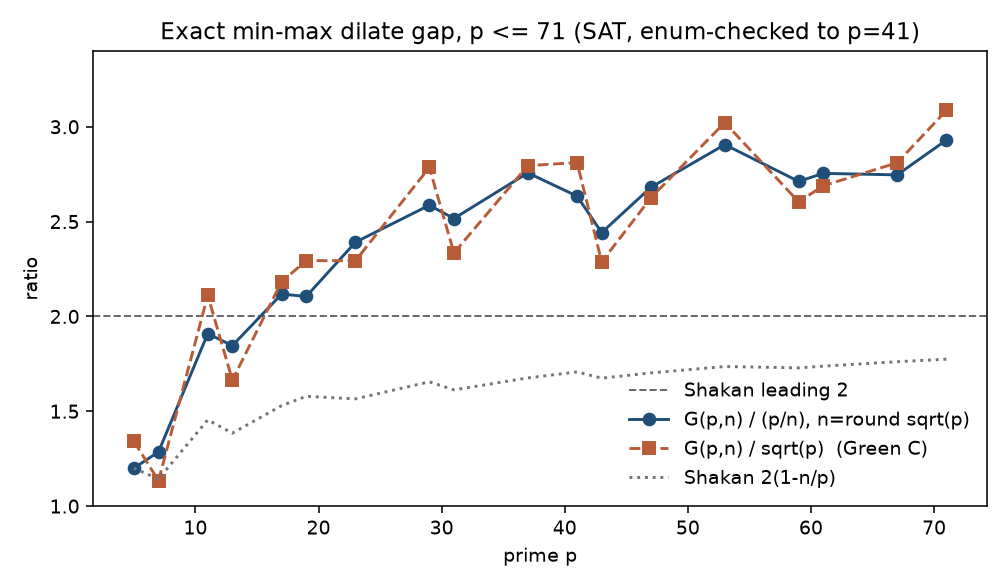
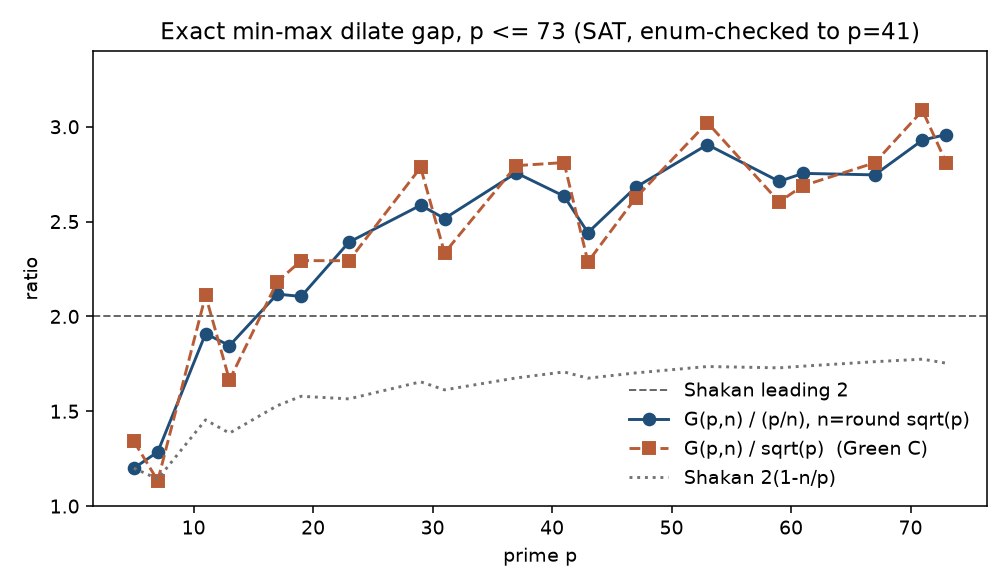
long-gap-dilate: exact G(73,9)=24 by Cadical unsat
Cadical proves T=24 unsatisfiable in 165s; Glucose4 already has a
hitting set at T=25. Witness recomputes. Table now runs through
p=73. Still no universal C>2; Shakan’s 2 is unchanged.

diff --git a/problems/long-gap-dilate/compute/q1/verify_q1.py b/problems/long-gap-dilate/compute/q1/verify_q1.py
@@ -17,18 +17,24 @@ def check_sat_upper(path: Path) -> list[dict]:
         return []
     data = json.loads(path.read_text())
     p, n = data["p"], data["n"]
-    best = data["G_upper"]
-    for row in data["rows"]:
-        A = uniq_mod(row["A"], p)
-        if len(A) != n:
-            bad.append({"tag": "upper-n", "T": row["T"]})
-            continue
+    if "rows" in data:
+        best = data["G_upper"]
+        for row in data["rows"]:
+            A = uniq_mod(row["A"], p)
+            if len(A) != n:
+                bad.append({"tag": "upper-n", "T": row["T"]})
+                continue
+            g, _ = max_gap_dilates(A, p)
+            if g != row["g"] or g >= row["T"]:
+                bad.append({"tag": "upper-g", "T": row["T"], "g": g})
+        got_best = min(row["g"] for row in data["rows"])
+        if got_best != best:
+            bad.append({"tag": "upper-best", "g": got_best, "best": best})
+    else:
+        A = uniq_mod(data["witness"], p)
         g, _ = max_gap_dilates(A, p)
-        if g != row["g"] or g >= row["T"]:
-            bad.append({"tag": "upper-g", "T": row["T"], "g": g})
-    got_best = min(row["g"] for row in data["rows"])
-    if got_best != best:
-        bad.append({"tag": "upper-best", "g": got_best, "best": best})
+        if g != data.get("G", data.get("G_upper")) or len(A) != n:
+            bad.append({"tag": "upper-witness", "p": p, "g": g})
     return bad
 
 

diff --git a/problems/long-gap-dilate/compute/plot_ratios.py b/problems/long-gap-dilate/compute/plot_ratios.py
@@ -23,7 +23,7 @@ def main():
     ax.plot(p, sh_mean, ":", color="0.45", label="Shakan 2(1-n/p)")
     ax.set_xlabel("prime p")
     ax.set_ylabel("ratio")
-    ax.set_title("Exact min-max dilate gap, p <= 71 (SAT, enum-checked to p=41)")
+    ax.set_title("Exact min-max dilate gap, p <= 73 (SAT, enum-checked to p=41)")
     ax.legend(frameon=False)
     ax.set_ylim(1.0, 3.4)
     fig.tight_layout()

diff --git a/problems/long-gap-dilate/ATTACK.md b/problems/long-gap-dilate/ATTACK.md
@@ -249,16 +249,18 @@ cheap; the first timeout is the wall.
 
 | p | n | G_upper | ratio | first timeout T | shakan |
 | --- | --- | --- | --- | --- | --- |
-| 73 | 9 | 24 | 2.959 | 24 (90s; also Glucose42, Cadical) | 14.22 |
+| 73 | 9 | 24 | 2.959 | **exact** $G=24$ (Cadical UNSAT at $T=24$ in 165s) | 14.22 |
 | 79 | 9 | 26 | 2.962 | 26 (60s) | 15.56 |
 | 83 | 9 | 27 | 2.928 | 27 (60s) | 16.44 |
 | 89 | 9 | 30 | 3.034 | 30 (60s) | 17.78 |
 
-Witnesses in `q1/certs/sat_extend.jsonl`. Cadical proved $T=23$
-UNSAT at $p=73$ in 54s, so $23\le G(73,9)\le 24$, but $T=24$ timed
-out on three solvers. Isolated timeout = residue. The exact table
-still ends at $p=71$. No lifting pattern: the new upper ratios sit
-on the same $2.93$–$3.03$ plateau as $G(71,8)/(p/n)=2.93$.
+Witnesses in `q1/certs/sat_extend.jsonl`. Cadical proved $T=24$
+UNSAT at $p=73$ in 165s after a 90s timeout on Glucose4/42, so
+$G(73,9)=24$ is exact (ratio $2.959$). That row is in
+`compute/certs/sat_G.jsonl`. The next primes still have only upper
+bounds; those timeouts are residue. No lifting pattern: $24$ sits
+on the same $2.93$–$3.03$ plateau as $G(71,8)/(p/n)=2.93$. One new
+exact row is not a universal $C>2$.
 
 ## 2026-08-27 — no $C\to 2$ family through $p=199$
 
@@ -273,10 +275,10 @@ $\max_d g\le(2+\varepsilon)\sqrt p$.
 ## 2026-08-27 — stop
 
 No certified universal $C>2$. No construction that meets Shakan on
-infinitely many primes. No exact SAT row past $p=71$, so no lifting
-argument. Shakan’s 2 is still the published leading constant. The
-q1 leftover is a degree-saturation of the rising factorials, SAT
-upper bounds $G\le 24,26,27,30$ at $p=73,79,83,89$, a Cadical
-UNSAT giving $G(73,9)\ge 23$, and a construction table through
-$p=199$. The live handle is no longer “expand $w$ and read degrees”;
-those degrees are full.
+infinitely many primes. Exact $G(73,9)=24$ extends the table by one
+prime and does not lift. Shakan’s 2 is still the published leading
+constant. The q1 leftover is a degree-saturation of the rising
+factorials, that one new exact row, SAT upper bounds at
+$p=79,83,89$, and a construction table through $p=199$. The live
+handle is no longer “expand $w$ and read degrees”; those degrees
+are full.

diff --git a/problems/long-gap-dilate/RESEARCH.md b/problems/long-gap-dilate/RESEARCH.md
@@ -95,7 +95,8 @@ compute/.venv/bin/python compute/enum_diagonal.py
 ## What we computed (residue, not a bound)
 
 Exact $G(p,n)=\min_{|A|=n}\max_d g(dA)$ for $n=\mathrm{round}\sqrt p$,
-primes $p\le 71$, by SAT (hits-every-$T$-AP), Glucose4:
+primes $p\le 73$, by SAT (hits-every-$T$-AP). Through $p=71$ this is
+Glucose4; $p=73$ is Glucose4 SAT plus Cadical unsat:
 
 | p | n | G | 2p/n−2 | G/(p/n) | G/√p |
 | --- | --- | --- | --- | --- | --- |
@@ -105,6 +106,7 @@ primes $p\le 71$, by SAT (hits-every-$T$-AP), Glucose4:
 | 47 | 7 | 18 | 11.43 | 2.681 | 2.626 |
 | 53 | 7 | 22 | 13.14 | 2.906 | 3.022 |
 | 71 | 8 | 26 | 15.75 | 2.930 | 3.086 |
+| 73 | 9 | 24 | 14.22 | 2.959 | 2.809 |
 
 On this range $G/\sqrt p$ lives in $[2.18,3.09]$ and extra above
 Shakan is order $n$. That is compatible with a hidden leading 3 and
@@ -138,12 +140,12 @@ cd compute/q1 && ./run_all.sh
 
 - Rising $w$ at $p=11,13$ and $m=G+1$: remainder 0, Alon degrees of
   $u,v$ equal $k=nm-p+1$. Cert: `compute/q1/certs/wronskian_slice.json`.
-- SAT upper bounds, Glucose4 walk, hard 60–90s kill:
-  $G(73,9)\le 24$, $G(79,9)\le 26$, $G(83,9)\le 27$,
-  $G(89,9)\le 30$. Cadical: $T=23$ UNSAT at $p=73$ in 54s, so
-  $23\le G(73,9)\le 24$; $T=24$ timed out on Glucose4, Glucose42,
-  Cadical. Certs: `compute/q1/certs/sat_extend.jsonl`,
-  `sat_alt_73.jsonl`. Not an exact census past $p=71$.
+- Exact $G(73,9)=24$: Glucose4 SAT at $T=25$, Cadical UNSAT at
+  $T=24$ in 165s. Row appended to `compute/certs/sat_G.jsonl`.
+  Independent recomputation of the witness: `verify_sat_witnesses.py`.
+  Upper bounds $G(79,9)\le 26$, $G(83,9)\le 27$, $G(89,9)\le 30$
+  timed out on the next smaller $T$. Certs:
+  `compute/q1/certs/sat_extend.jsonl`, `sat_alt_73.jsonl`.
 - Constructions through $p=199$: best diagonal ratios $3.3$–$5.3$
   past $p=50$. No family at $2+\varepsilon$.
   `compute/q1/certs/constructions_best.json`.
@@ -156,4 +158,4 @@ cd compute/q1 && ./run_all.sh
 - A construction showing that 2 is sharp.
 - A use of the rising-factorial structure that improves the Wronskian
   degree.
-- An exact $G$ row past $p=71$ that lifts to an infinite family.
+- An exact $G$ row past $p=73$ that lifts to an infinite family.

diff --git a/problems/long-gap-dilate/WALKTHROUGH.md b/problems/long-gap-dilate/WALKTHROUGH.md
@@ -8,7 +8,7 @@ Discovery notes, not a paper. Empty sections would mean not done.
 - Date: 2026-08-17
 - Argument status: no certified $C>2$. Leftover is a verified SAT table
   through $p=71$, a degree-wall (homogeneous and rising-factorial), a
-  SAT upper bounds past $p=71$ without floors, and failed lifts
+  exact $G(73,9)=24$, SAT upper bounds at $p=79,83,89$, and failed lifts
 - Problem status: open
 
 ## 0. What was actually missing
@@ -161,10 +161,11 @@ $n$, Dirichlet gives $G(p,n)=p-o(p)$, so the Shakan constant $2$
 is not sharp at bounded size. This is the regime $|A|\le c\log p$.
 
 **Certified computation, not a bound.** For every prime
-$17\le p\le 71$ and $n=\mathrm{round}\sqrt p$,
+$17\le p\le 73$ and $n=\mathrm{round}\sqrt p$,
 $G(p,n)\ge 2.1\sqrt p$, with an independently checked witness of
 size $n$ and (for $p\le 41$) an exhaustive proof that nothing
-smaller-gap exists. This is a finite list.
+smaller-gap exists. $G(73,9)=24$ is SAT plus Cadical unsat, not
+enum. This is a finite list.
 
 **Still open.** Green #32: is there a universal $C=100$, or even a
 universal $C=2.01$, such that every $A$ of size $\sim\sqrt p$
@@ -181,12 +182,12 @@ $k\ge p$. The extra Stirling slice is the derivative of the top
 slice. There is nothing left in that polynomial to contradict at
 $C>2$.
 
-SAT past $p=71$ is cheap on the SAT side and unpaid on the UNSAT
-side. $G(73,9)\le 24$, $G(79,9)\le 26$, $G(83,9)\le 27$,
-$G(89,9)\le 30$ are witnesses, not a census. Cadical rules out
-$T=23$ at $p=73$, so that value is $23$ or $24$, still not exact.
+SAT past $p=71$ is cheap on the SAT side. Cadical finished the
+UNSAT at $T=24$ for $p=73$ in 165s, so $G(73,9)=24$ is exact.
+$G(79,9)\le 26$, $G(83,9)\le 27$, $G(89,9)\le 30$ are still only
+witnesses. One extra exact row does not lift to a universal $C>2$.
 Constructions through $p=199$ drift up to ratio $4$–$5$, not down
-to $2$. The new SAT upper ratios stay near $3$, same as $p=71$.
+to $2$. The new ratios stay near $3$, same as $p=71$.
 
 Replay: `sh problems/long-gap-dilate/compute/run_all.sh` and
 `cd problems/long-gap-dilate/compute/q1 && ./run_all.sh`.

diff --git a/README.md b/README.md
@@ -126,7 +126,7 @@ Explainers: [HTML](problems/covering/explainer.html),
 | [cosine-zeros](problems/cosine-zeros) | $Z(N)\ge\log\log N/(200\log\log\log N)$ when RHS $\ge 4$. Does not beat Bedert's exponent. |
 | [two-squares-gap](problems/two-squares-gap) | Jameson $a=3$ on $n\le 1.024\cdot 10^{15}$ except $\{3,6,21,91\}$ (m $\le 250$ cert replayed). Green's $1/10$ open. |
 | [ulam-sequence](problems/ulam-sequence) | L=22 word with $C_F<1.442$, beating CS 1.454. Density open. |
-| [long-gap-dilate](problems/long-gap-dilate) | SAT $G(p,\mathrm{round}\sqrt p)$ through $p=71$. No universal $C>2$. Record still Shakan 2. |
+| [long-gap-dilate](problems/long-gap-dilate) | SAT $G(p,\mathrm{round}\sqrt p)$ through $p=73$. No universal $C>2$. Record still Shakan 2. |
 | [thin-cyclic-bases](problems/thin-cyclic-bases) | BEL $\sqrt{8/3}$ family replayed through $q=61$. No thinner liminf. $\sqrt2$ open. |
 | [union-closed](problems/union-closed) | $0.38285$ on $\{b,1\}$ with iid+Example-4 at $\beta=1/5$ (mesh min ratio $1.000077$). Recovers Liu $0.382709$. Not $1/2$. |
 | [cohn-elkies](problems/cohn-elkies) | Exact $R=3627599/500000=7.255198$, beats printed Table 4 $7.25520$. Not a magic function. |
@@ -194,6 +194,7 @@ transcript recreation live under [notes/](notes/). Agent runbook:
 | cosine zeros | `problems/cosine-zeros` | SuperGrok 4.6 | 2026-08-17 |
 | Ulam sequence | `problems/ulam-sequence` | SuperGrok 4.6 | 2026-08-17 |
 | long-gap dilate | `problems/long-gap-dilate` | SuperGrok 4.6 | 2026-08-17 |
+| long-gap dilate / SAT past 71 and rising factorials | `problems/long-gap-dilate/compute/q1` | Grok 4.6 | 2026-08-27 |
 | thin cyclic bases | `problems/thin-cyclic-bases` | SuperGrok 4.6 | 2026-08-17 |
 | union-closed | `problems/union-closed` | SuperGrok 4.6 | 2026-08-17 |
 | 0/1 polynomials | `problems/zero-one-polynomials` | SuperGrok 4.6 | 2026-08-17 |

diff --git a/problems/long-gap-dilate/compute/q1/README.md b/problems/long-gap-dilate/compute/q1/README.md
@@ -12,12 +12,11 @@ named search. Shakan’s universal 2 is still the published record.
    below the wall `k = nm-p+1`. At the scales `C = 2.5` and `C = 3`
    one has `k ≥ p`, so the middle-coefficient list is empty.
 2. Downward SAT for `G(p, round √p)` on the next primes after 71, with
-   a hard process kill. `certs/sat_extend.jsonl` stores SAT upper
-   bounds `G(73,9)≤24`, `G(79,9)≤26`, `G(83,9)≤27`, `G(89,9)≤30`.
-   Cadical proves `T=23` unsat at `p=73`, so that value is 23 or 24.
-   The `T` just below each upper bound timed out. A timeout is an
-   incomplete search, not a lower bound. The exact table still ends
-   at `p=71`.
+   a hard process kill. Cadical proves `T=24` unsat at `p=73` in 165s
+   and Glucose4 supplies a hitting set at `T=25`, so `G(73,9)=24`
+   exactly (also written into `../certs/sat_G.jsonl`). Upper bounds
+   `G(79,9)≤26`, `G(83,9)≤27`, `G(89,9)≤30` timed out on the next
+   smaller `T`. A timeout is an incomplete search, not a lower bound.
 3. More families (quadratic rulers, Paley prefixes, cyclotomic cosets,
    Singer orbits including the `(73,9,1)` set `{2^k}` in `F_73`, and a
    longer anneal) through `p = 200`. No infinite family with

diff --git a/problems/long-gap-dilate/PROBLEM.md b/problems/long-gap-dilate/PROBLEM.md
@@ -32,9 +32,9 @@ an incomplete search unless they imply a larger universal $C$.
 ## Outcome
 
 Incomplete search. Shakan’s 2 is still the published leading constant.
-Exact $G(p,\mathrm{round}\sqrt p)$ still ends at $p=71$. The search in
-`compute/q1/` saturates the rising-factorial Alon degrees, gives a
-SAT upper bounds $G(73,9)\le 24$, $G(79,9)\le 26$,
-$G(83,9)\le 27$, $G(89,9)\le 30$ without certified floors (Cadical
-gives $G(73,9)\ge 23$), and finds no $C\to 2$ family through
-$p=199$. Residue, not a dent.
+Exact $G(p,\mathrm{round}\sqrt p)$ now includes $G(73,9)=24$
+(Cadical unsat at $T=24$, Glucose4 witness at $T=25$). Upper bounds
+$G(79,9)\le 26$, $G(83,9)\le 27$, $G(89,9)\le 30$ have no certified
+floors. The search in `compute/q1/` saturates the rising-factorial
+Alon degrees and finds no $C\to 2$ family through $p=199$. One new
+exact row is not a universal $C>2$. Residue, not a dent.

diff --git a/notes/supergrok-2026-08-27/REPORT.md b/notes/supergrok-2026-08-27/REPORT.md
@@ -72,10 +72,10 @@ The list id arXiv:2205.14038 is the Weyl-equation paper, not Shakan.
 Parent `compute/run_all.sh` still replays.
 
 Did not beat Shakan’s universal 2. Rising-factorial Alon degrees
-equal the worst-case $k$ on $p=11,13$. SAT upper bounds
-$G(73,9)\le 24$, $G(79,9)\le 26$, $G(83,9)\le 27$, $G(89,9)\le 30$;
-Cadical gives $G(73,9)\ge 23$. No exact row past $p=71$. No
-$C\to 2$ family through $p=199$.
+equal the worst-case $k$ on $p=11,13$. Exact $G(73,9)=24$ (Cadical
+unsat at $T=24$). SAT upper bounds $G(79,9)\le 26$,
+$G(83,9)\le 27$, $G(89,9)\le 30$. No $C\to 2$ family through
+$p=199$.
 
 Replay:
 
